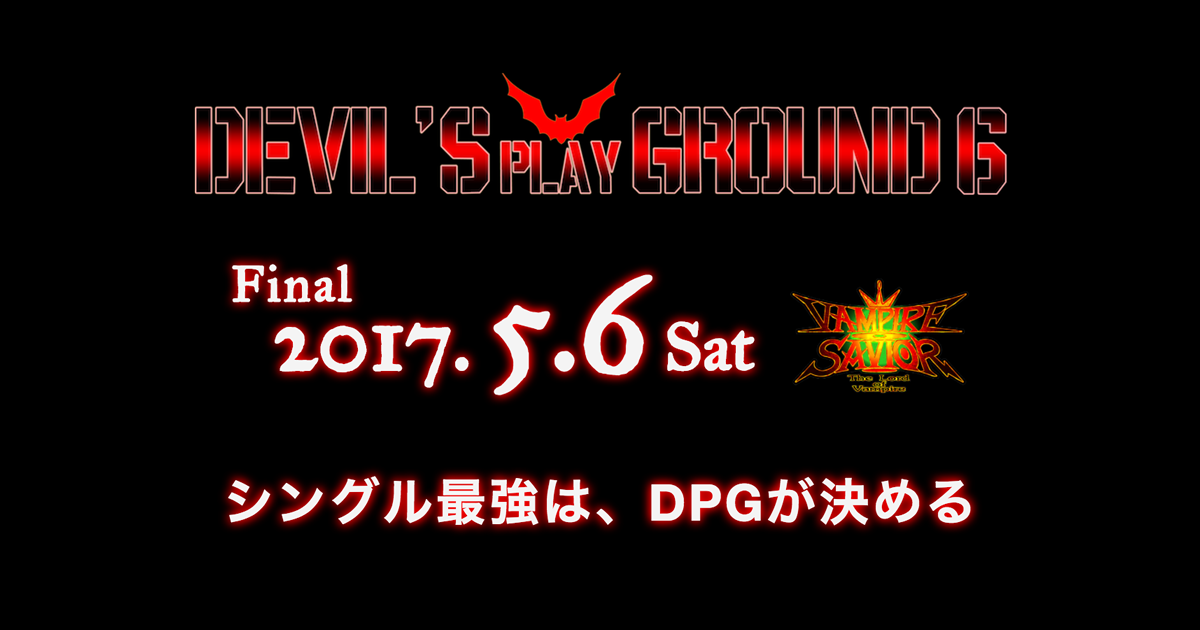
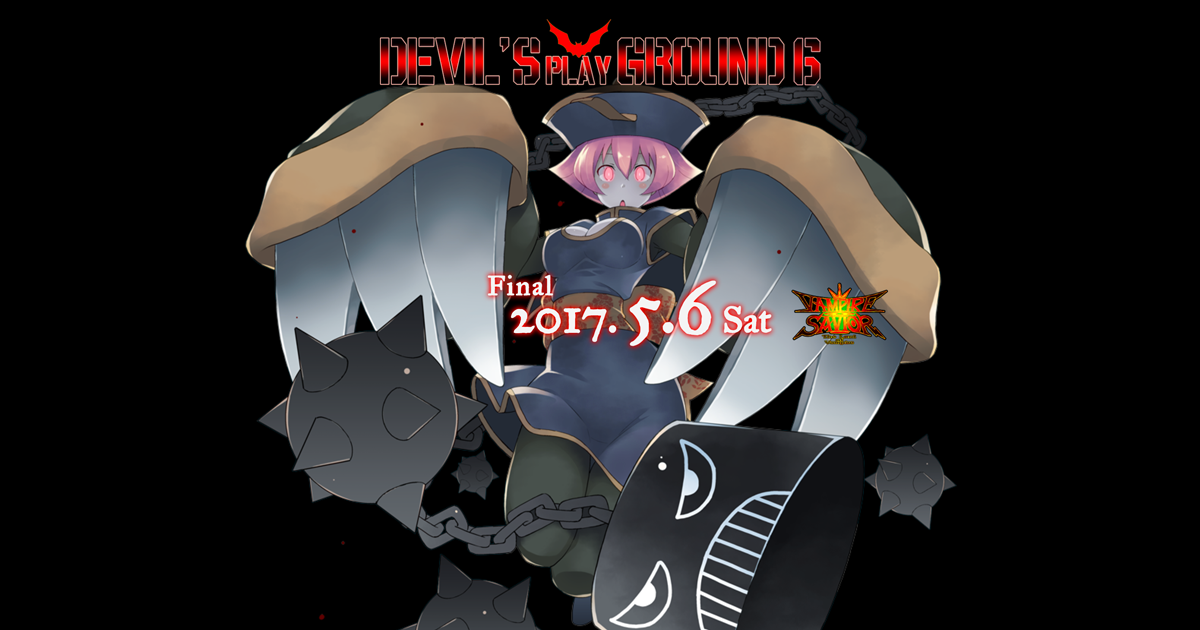
イラストを追加

diff --git a/dpg/06/scss/main.scss b/dpg/06/scss/main.scss
@@ -24,18 +24,17 @@ body {
   padding: 0;
   margin: 0;
   font-family: "Helvetica Neue", Helvetica, Arial, "ヒラギノ角ゴ Pro W3", "Hiragino Kaku Gothic Pro", "メイリオ", "Meiryo", sans-serif;
-  // background: #000 url(../img/background.png) no-repeat 0 -150px;
-  background: #000;
+  background: #000 url(../img/background.png) no-repeat center 0;
   background-attachment: fixed;
   @media (max-width: $mobile-breakpoint) {
-    background-position: 50% -30px;
+    background-position: center 26px;
     background-size: contain;
   }
 }
 .container {
   width: 100%;
   max-width: 960px;
-  margin: 3em auto 0;
+  margin: 10px auto 0;
   padding: 0;
   position: relative;
   @media (max-width: $mobile-breakpoint) {
@@ -49,7 +48,7 @@ body {
     margin-top: 10px;
     text-align: center;
     @media (max-width: $mobile-breakpoint) {
-      margin-top: 60px;
+      margin-top: 3px;
       // position: fixed;
       top: 0;
       z-index: 999;
@@ -63,18 +62,20 @@ body {
       @media (max-width: $mobile-breakpoint) {
         box-sizing: border-box;
         width: 100%;
-        padding: 5px 20px 10px;
+        padding: 5px 60px 10px 20px;
       }
     }
   }
 }
 
 .event-info {
-  margin: 48px 0 0;
+  margin: 248px 0 0;
+  padding-right: 100px;
   width: 100%;
-  text-align: center;
+  text-align: right;
   @media (max-width: $mobile-breakpoint) {
-    margin-top: 20px;
+    margin-top: 96px;
+    padding-right: 8px;
   }
   div {
     display: inline-block;

diff --git a/dpg/06/css/main.css b/dpg/06/css/main.css
@@ -20,13 +20,13 @@ body {
   padding: 0;
   margin: 0;
   font-family: "Helvetica Neue", Helvetica, Arial, "ヒラギノ角ゴ Pro W3", "Hiragino Kaku Gothic Pro", "メイリオ", "Meiryo", sans-serif;
-  background: #000;
+  background: #000 url(../img/background.png) no-repeat center 0;
   background-attachment: fixed;
 }
 
 @media (max-width: 768px) {
   body {
-    background-position: 50% -30px;
+    background-position: center 26px;
     background-size: contain;
   }
 }
@@ -34,7 +34,7 @@ body {
 .container {
   width: 100%;
   max-width: 960px;
-  margin: 3em auto 0;
+  margin: 10px auto 0;
   padding: 0;
   position: relative;
 }
@@ -57,7 +57,7 @@ body {
 
 @media (max-width: 768px) {
   .title-logo h1.logo {
-    margin-top: 60px;
+    margin-top: 3px;
     top: 0;
     z-index: 999;
   }
@@ -75,19 +75,21 @@ body {
   .title-logo h1.logo img {
     box-sizing: border-box;
     width: 100%;
-    padding: 5px 20px 10px;
+    padding: 5px 60px 10px 20px;
   }
 }
 
 .event-info {
-  margin: 48px 0 0;
+  margin: 248px 0 0;
+  padding-right: 100px;
   width: 100%;
-  text-align: center;
+  text-align: right;
 }
 
 @media (max-width: 768px) {
   .event-info {
-    margin-top: 20px;
+    margin-top: 96px;
+    padding-right: 8px;
   }
 }
 
